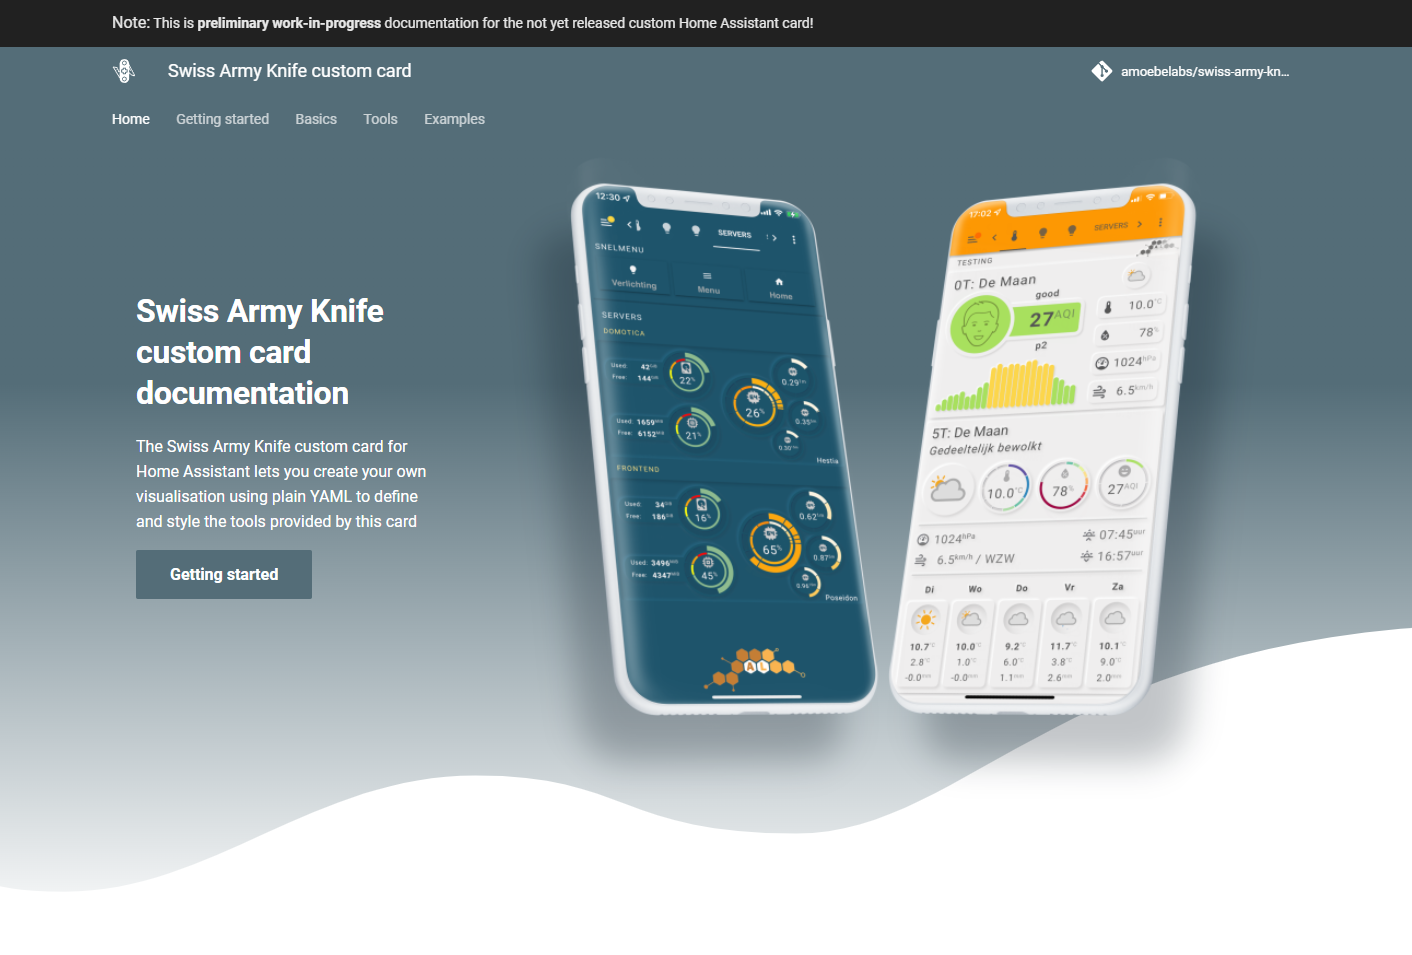
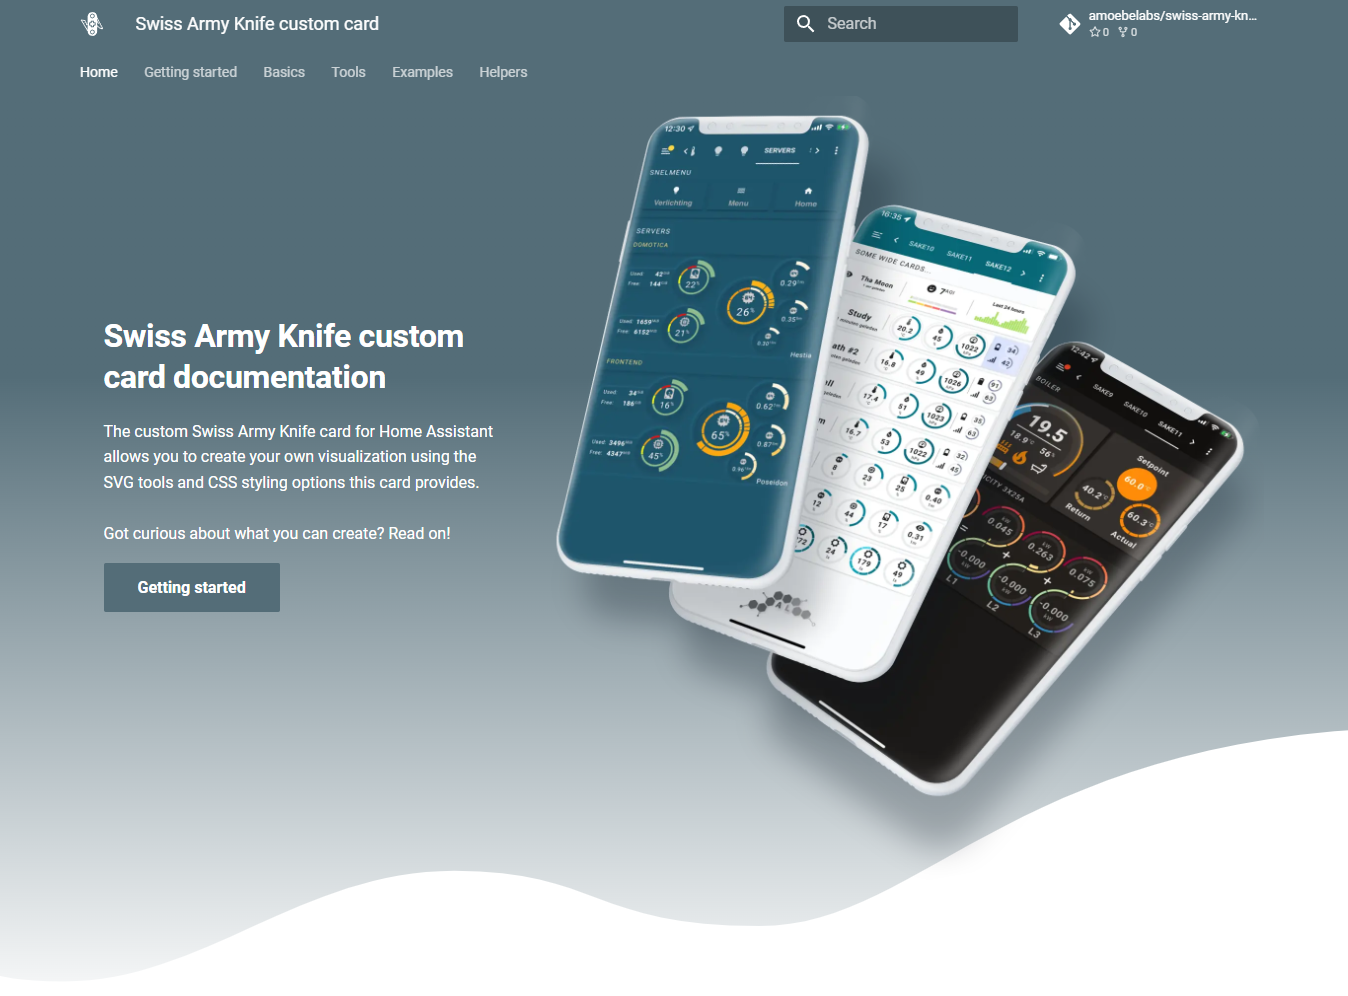
Update frontpage image in README

diff --git a/README.md b/README.md
@@ -5,3 +5,5 @@ Currently in BETA
 For online documentation, see: https://swiss-army-knife.docs.amoebelabs.com/
 
 ![frontpage](sak-frontpage.png)
+
+<a href="https://www.buymeacoffee.com/amoebelabs" target="_blank"><img src="https://cdn.buymeacoffee.com/buttons/v2/default-yellow.png" alt="Buy Me A Coffee" style="height: 60px !important;width: 217px !important;" ></a>
